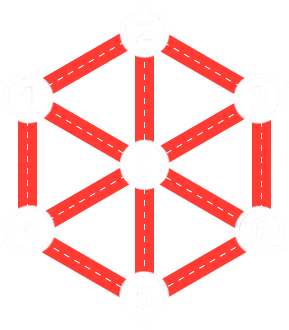
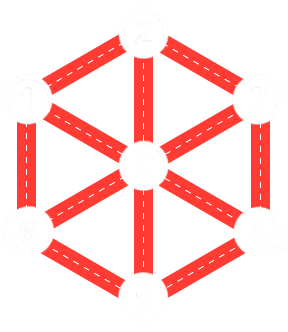
Coordonnées des places calculées + ressources

diff --git a/src/Vue/Simulation.java b/src/Vue/Simulation.java
@@ -7,6 +7,7 @@ import java.awt.Graphics;
 import java.awt.event.ActionEvent;
 import java.awt.event.ActionListener;
 import java.io.IOException;
+import java.util.ArrayList;
 
 import javax.imageio.ImageIO;
 import javax.swing.Box;
@@ -27,11 +28,14 @@ public class Simulation extends MainPan {
 	private JComboBox depart, arrivee;
 	private JLabel dep, ar;
 	private String[] tab = {"1", "2", "3", "4", "5", "6"};
+	private ArrayList<Place> places;
+	private int centerx = 158, centery = 179, r = 25, dist = 132;
 
 	
 
 	public Simulation(boolean auto, Fenetre mere) {
 		super();
+		buildPlaces();
 		mere.setSize(new Dimension(350, 475));
 		this.setPreferredSize(new Dimension(350, 450));
 		this.setLayout(new BorderLayout());
@@ -84,6 +88,17 @@ public class Simulation extends MainPan {
 		this.add(map, BorderLayout.CENTER);
 		this.add(buttonpan, BorderLayout.SOUTH);
 	}
+	
+	private void buildPlaces(){
+		places = new ArrayList<Place>();
+		places.add(new Place(0, centerx, centery));
+		places.add(new Place(1, (int)(centerx - (dist/2)*Math.sqrt(3)), (centery - (dist/2))));
+		places.add(new Place(2, centerx, centery - dist));
+		places.add(new Place(3, (int) (centerx + (dist/2)*Math.sqrt(3)), centery - (dist/2)));
+		places.add(new Place(4, (int) (centerx + (dist/2)*Math.sqrt(3)), centery + (dist/2)));
+		places.add(new Place(5, centerx, centery + dist));
+		places.add(new Place(6, (int) (centerx - (dist/2)*Math.sqrt(3))-r, centery - (dist/2)));
+	}
 
 	private class MapPan extends MainPan {
 		/**
@@ -91,15 +106,40 @@ public class Simulation extends MainPan {
 		 */
 
 		protected void paintComponent(Graphics g) {
+			int centerx = 158;
+			int centery = 179;
+			int r = 25;
+			int dist = 132;
 			try { // On dessine l'image(avec des couples de coordonnees pour
 					// chaque coin)
-				g.drawImage(ImageIO.read(this.getClass().getResource("Map_proj.png")), 0,
+				g.drawImage(ImageIO.read(this.getClass().getResource("Map_proj2.png")), 0,
 						0, this.getWidth(), this.getHeight(), 0, 0,
 						this.getWidth(), this.getHeight(), null);
+				g.setColor(new Color(90, 150, 12));
+				//Le centre de l'image se trouve en 157, 177
+				g.fillOval(centerx-r, centery-r, r, r);//CENTRE
+				g.fillOval(centerx-r, (centery-dist)-r, r, r);//2
+				g.fillOval((int) (centerx + (dist/2)*Math.sqrt(3))-r, (centery - (dist/2))-r, r, r);//3
+				g.fillOval((int) (centerx + (dist/2)*Math.sqrt(3))-r, (centery + (dist/2))-r, r, r);//4
+				g.fillOval(centerx-r, centery+dist-r, r, r);//5
+				g.fillOval((int) (centerx - (dist/2)*Math.sqrt(3))-r, (centery + (dist/2))-r, r, r);//6
+				g.fillOval((int) (centerx - (dist/2)*Math.sqrt(3))-r, (centery - (dist/2))-r, r, r);//1
 
 			} catch (IOException e) {
 				e.printStackTrace();
 			}
+		}
+	}
+	
+	public class Place{
+		
+		int iD;
+		int x;
+		int y;
+		public Place(int iD, int x, int y) {
+			this.iD = iD;
+			this.x = x;
+			this.y = y;
 		}
 	}
 }
